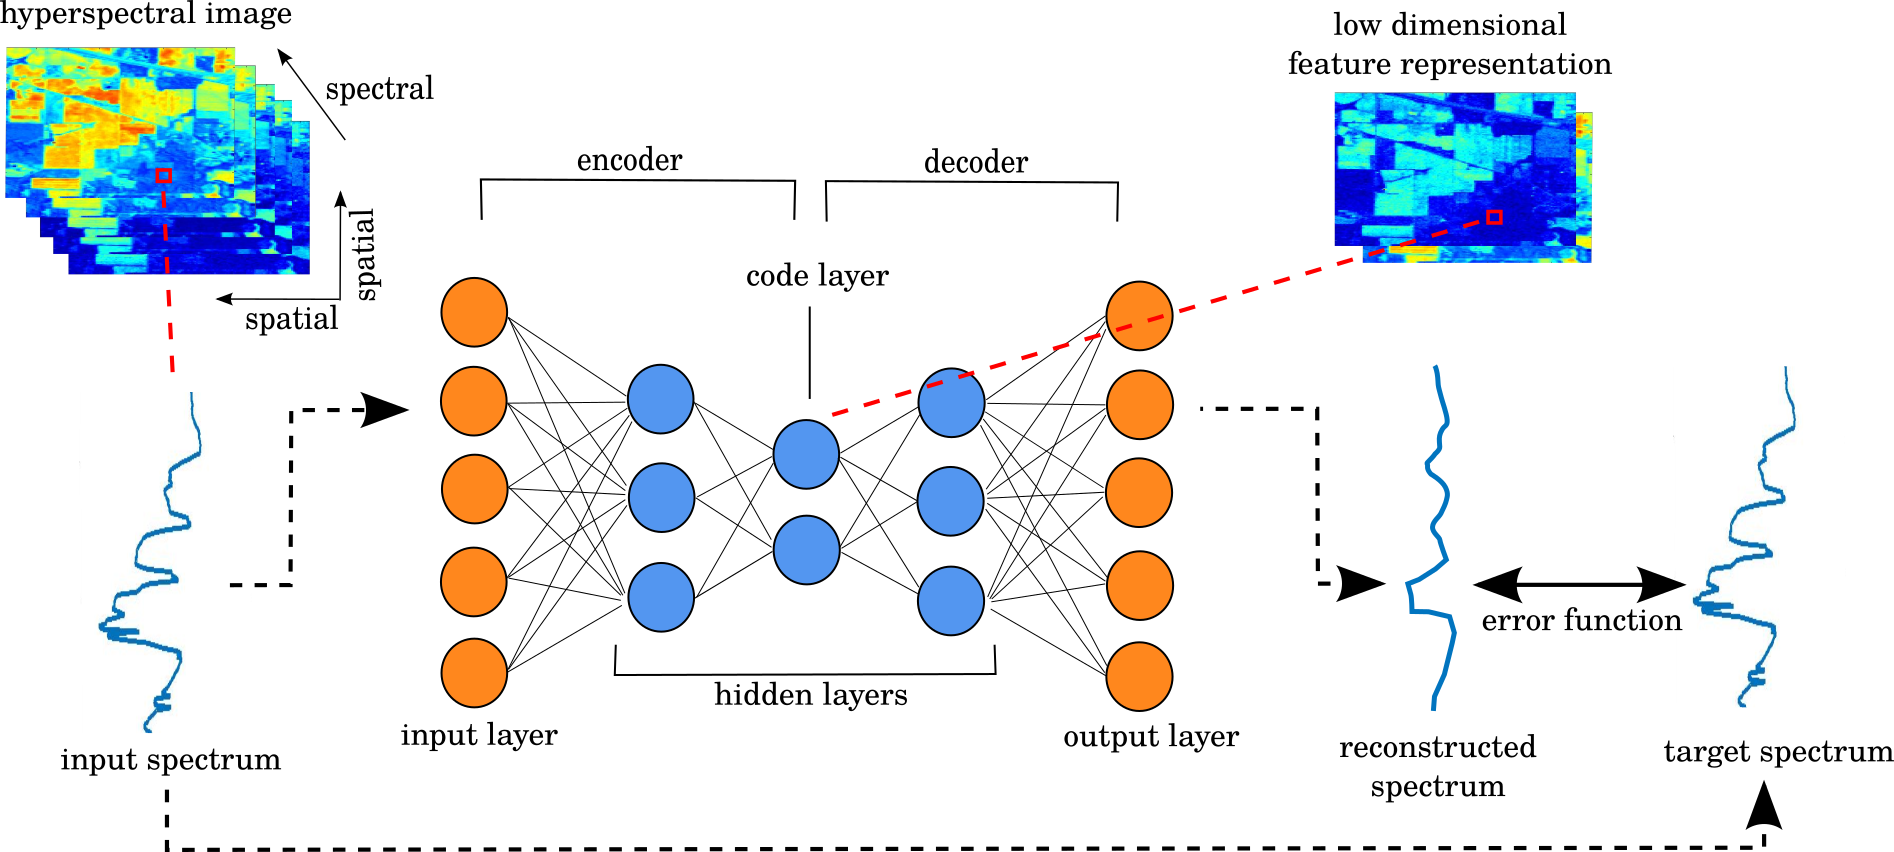
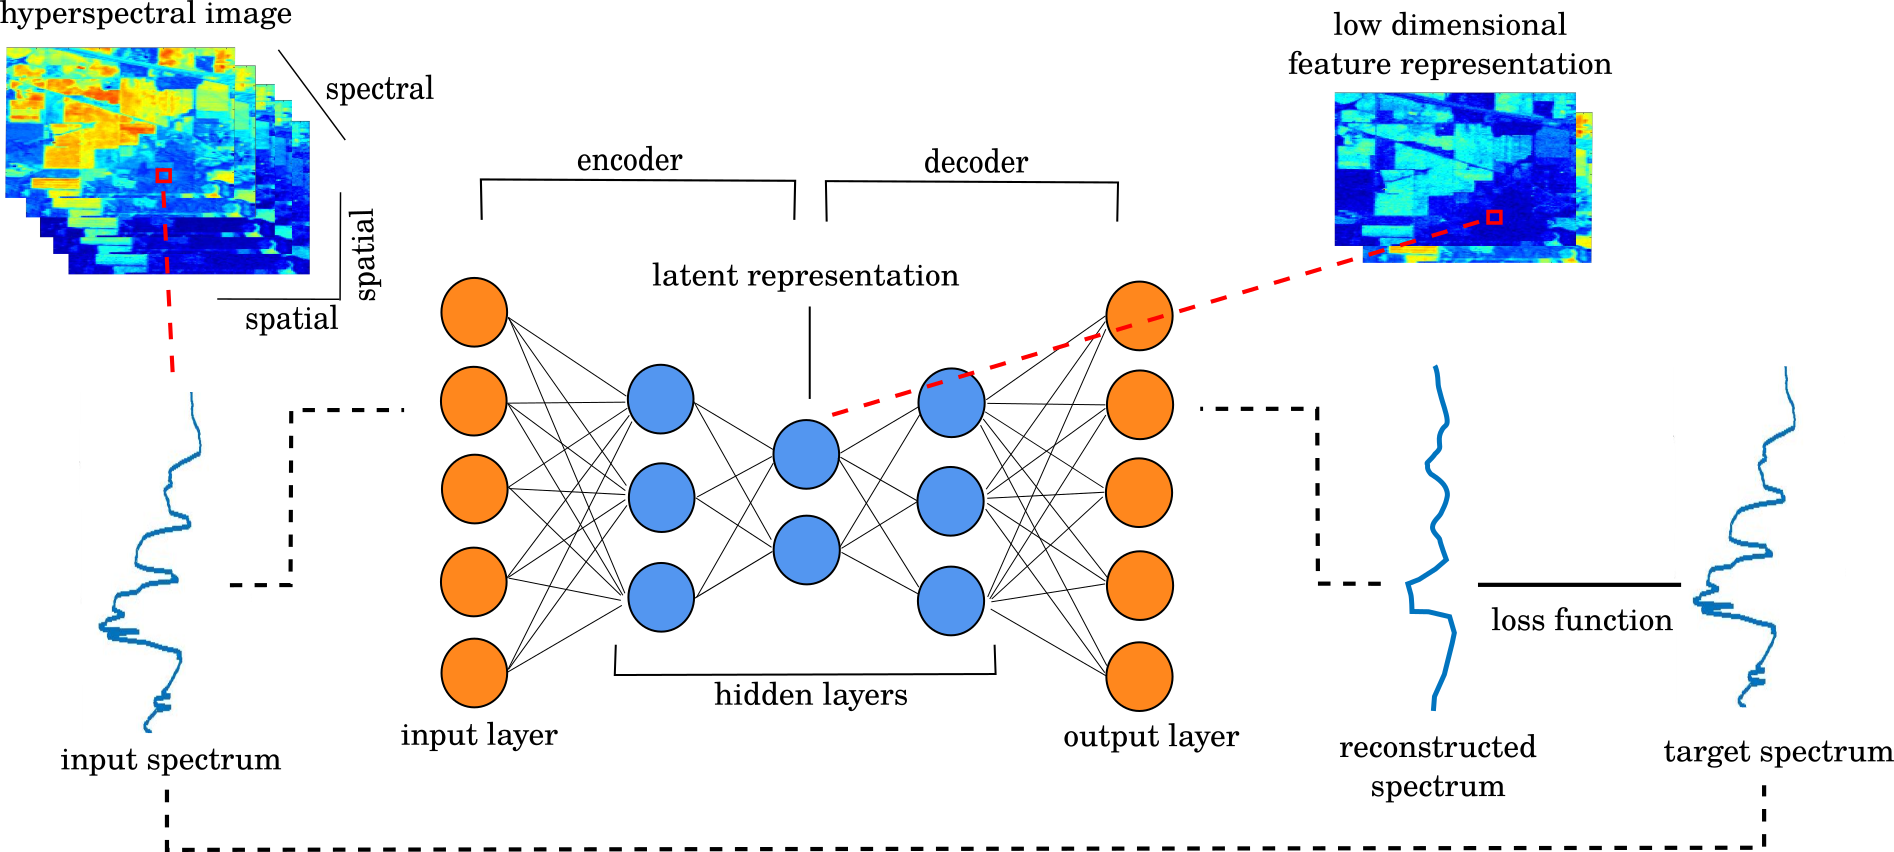
readme

diff --git a/examples/train_MLP_advanced.py b/examples/train_MLP_advanced.py
@@ -16,9 +16,6 @@ import data
 
 if __name__ == '__main__':
 
-    # fix the random seed
-    set_random_seed(seed=50)
-
     # download dataset (if already downloaded, comment this out)
     #urllib.urlretrieve( 'http://www.ehu.eus/ccwintco/uploads/e/ee/PaviaU.mat', os.path.join(os.getcwd(),'PaviaU.mat'), reporthook )
 

diff --git a/examples/train_CNN_vs_MLP.py b/examples/train_CNN_vs_MLP.py
@@ -16,8 +16,6 @@ import data
 
 if __name__ == '__main__':
 
-    set_random_seed(seed=50)
-
     # download dataset (if already downloaded, comment this out)
     #urllib.urlretrieve( 'http://www.ehu.eus/ccwintco/uploads/e/ee/PaviaU.mat', os.path.join(os.getcwd(),'PaviaU.mat'), reporthook )
 

diff --git a/examples/train_MLP_basic.py b/examples/train_MLP_basic.py
@@ -16,8 +16,6 @@ import data
 if __name__ == '__main__':
 
 
-    #set_random_seed(seed=0)
-
     # download dataset (if already downloaded, comment this out)
     urllib.urlretrieve( 'http://www.ehu.eus/ccwintco/uploads/e/ee/PaviaU.mat', os.path.join(os.getcwd(),'PaviaU.mat'), reporthook )
 

diff --git a/examples/train_MLP_sid.py b/examples/train_MLP_sid.py
@@ -17,8 +17,6 @@ import data
 
 if __name__ == '__main__':
 
-    set_random_seed(seed=0)
-
     # download dataset (if already downloaded, comment this out)
     #urllib.urlretrieve( 'http://www.ehu.eus/ccwintco/uploads/e/ee/PaviaU.mat', os.path.join(os.getcwd(),'PaviaU.mat'), reporthook )
 

diff --git a/examples/utils.py b/examples/utils.py
@@ -1,6 +1,5 @@
 import sys
 import time
-import tensorflow as tf
 
 
 def reporthook(count, block_size, total_size):
@@ -23,8 +22,3 @@ def reporthook(count, block_size, total_size):
     sys.stdout.flush()
 
 
-
-
-def set_random_seed(seed=0):
-
-    tf.set_random_seed(seed)

diff --git a/README.md b/README.md
@@ -39,18 +39,19 @@ The toolbox compresses several key processes:
 - building networks
 - adding train operations
 - training networks
+- loading a trained network
 
 Each of these are elaborated on below:
 
 ### Data preparation
 
-A class within the toolbox from the data module called HypImg handles the dataset. The class accepts the hyperspectral data  in numy format, with shape [numRows x numCols x numBands] or [numSamples x numBands]. 
+A class within the toolbox from the data module called HypImg handles the dataset. The class accepts the hyperspectral data  in numy format, with shape [numRows x numCols x numBands] or [numSamples x numBands]. The networks in the toolbox operate in the spectral domain, not the spatial, so if an image is input with shape [numRows x numCols x numBands], it is reshaped to [numSamples x numBands], collapsing the saptial dimensions into one.
 
 ```
 import data
 hypData = data.HypImg( img )
 ```
-Then the data can be pre-processed using a function of the HypImg class. For example, using the 'minmax' method:
+Then the data can be pre-processed using a function of the HypImg class. For example, using the 'minmax' approach:
 ```
 hypData.pre_process( 'minmax' )
 ```
@@ -65,13 +66,11 @@ Some hyperspectral datasets in a matlab file format (.mat) can be downloaded fro
 
 The Iterator class within the data module has methods for calling batches from the data that are used to train the network. A separate iterator object is made for the training and validation data. For example, an iterator object made from 100 pre-processed hyperspectral training samples with a batchsize of 10 is defined as:
 ```
-dataTrain = data.Iterator( dataSamples=hypData.spectraPrep[:100, :],
-targets=hypData.spectraPrep[:100, :], batchSize=10 )
+dataTrain = data.Iterator( dataSamples=hypData.spectraPrep[:100, :], targets=hypData.spectraPrep[:100, :], batchSize=10 )
 ```
 For a typical autoencoder, the targets that the network is learning to output are the same as the data samples being input into the network. Similarly, an iterator object made from 20 validation samples is defined as:
 ```
-dataVal = data.Iterator( dataSamples=hypData.spectraPrep[100:120, :],
-targets=hypData.spectraPrep[100:120, :] )
+dataVal = data.Iterator( dataSamples=hypData.spectraPrep[100:120, :], targets=hypData.spectraPrep[100:120, :] )
 ```
 Because the batchsize is unspecified, all 20 samples are used for the batch. The data in an iterator can also be shuffled before it is used to train a network:
 ```
@@ -92,25 +91,19 @@ If not using config files to set up a network, then the input size of the data m
 
 Additional aspects of the network architecture can also be specified when initialising the object. For the MLP autoencoder:
 ```
-net = autoencoder.mlp_1D_network( inputSize=hypData.numBands, encoderSize=[50,30,10,5],
-activationFunc='relu', weightInitOpt='truncated_normal', tiedWeights=[1,0,0,0],
-skipConnect=False, activationFuncFinal='linear')
+net = autoencoder.mlp_1D_network( inputSize=hypData.numBands, encoderSize=[50,30,10,5], activationFunc='relu', weightInitOpt='truncated_normal', tiedWeights=[1,0,0,0], skipConnect=False, activationFuncFinal='linear')
 ```
 - number of layers in the encoder (and decoder) - this is the length of the list 'encoderSize'
 - number of neurons in each layer of the encoder - these are the values in the 'encoderSize' list. The last value in the list is the number of dimensions in the latent vector.
 - the activation function which proceeds each layer and the function for the final decoder layer - activationFunc and activationFuncFinal
-- the method of initialising network parameters - weightInitOpt
+- the method of initialising network parameters (e.g. xavier improved) - weightInitOpt
 - which layers of the encoder to tie  to the decoder, such that they share a set of parameters - these are the values in the list 'tiedWeights'
 - whether the network uses skip connections between corresponding layers in the encoder and decoder - specified by the boolean argument skipConnect
 
 
 The convolutional autoencoder has similar arguments for defining the network architecture, but without 'encoderSize' and with some additional arguments:
 ```
-net = autoencoder.cnn_1D_network( inputSize=hypData.numBands, zDim=3,
-encoderNumFilters=[10,10,10], encoderFilterSize=[20,10,10], 
-activationFunc='relu', weightInitOpt='truncated_normal', 
-encoderStride=[1, 1, 1], padding='VALID', tiedWeights=[1,0,0,], 
-skipConnect=False, activationFuncFinal='linear' )
+net = autoencoder.cnn_1D_network( inputSize=hypData.numBands, zDim=3, encoderNumFilters=[10,10,10], encoderFilterSize=[20,10,10],  activationFunc='relu', weightInitOpt='truncated_normal',  encoderStride=[1, 1, 1], padding='VALID', tiedWeights=[1,0,0,],  skipConnect=False, activationFuncFinal='linear' )
 ```
 - number of layers in the encoder (and decoder) - this is the length of the list 'encodernumFilters'
 - number of filters/kernels in each conv layer - these are the values in the 'encodernumFilters' list
@@ -122,19 +115,75 @@ skipConnect=False, activationFuncFinal='linear' )
 
 Alternatively to defining the architecture by the initialisation arguments, a config.json file can be used:
 ```
-mlp = autoencoder.mlp_1D_network( configFile='config.json') )
+net = autoencoder.mlp_1D_network( configFile='config.json') )
 ```
 Some example config files can be found in examples/example_configs.
 
 
 
+### Adding training operations
 
+Once a network has been created, a training operation can be added to it. It is possible to add multiple training operations to a network, so each op must be given a name:
+```
+net.add_train_op( name='experiment_1' )
+```
+When adding a train op, details about how the network will be trained with that op can be specified. For example, a train op which uses the cosine spectral angle (CSA) loss function, a learning rate of 0.001 with no decay, optimised with Adam and no weight decay can be defined by:
+```
+net.add_train_op( name='experiment_1', lossFunc='CSA', learning_rate=1e-3, decay_steps=None, decay_rate=None, method='Adam', wd_lambda=0.0 )
+```
+There are several loss functions that can be used, many of which were designed specifically for hyperspectral data:
+- [cosine spectral angle (CSA)](https://ieeexplore.ieee.org/abstract/document/7533202)
+- [spectral angle (SA)](https://www.mdpi.com/2072-4292/11/7/864)
+- [spectral information divergence (SID)](https://www.mdpi.com/2072-4292/11/7/864)
+- [sum-of-squared errors (SSE)](https://www.mdpi.com/2072-4292/11/7/864)
 
+The method of decaying the learning rate can also be customised. For example, to decay exponentially every 100 steps:
+```
+net.add_train_op( name='experiment_1',learning_rate=1e-3, decay_steps=100, decay_rate=0.9 )
+```
+A piecewise approach of decaying the learning rate can also be used. For example, to change the learning rate from 0.001 to 0.0001 after 100 steps, and then to 0.00001 after a further 200 steps:
+```
+net.add_train_op( name='experiment_1',learning_rate=1e-3, piecewise_bounds=[100,300], piecewise_values=[1e-4,1e-5] )
+```
 
+### Training networks
 
+Once one or multiple training ops have been added to a network, they can be used to learn a model (or multiple models) for that network through training:
+```
+net.train(dataTrain=dataTrain, dataVal=dataVal, train_op_name='experiment_1', n_epochs=100, save_addr=model_directory, visualiseRateTrain=5, visualiseRateVal=10, save_epochs=[50,100])
+```
+The train method learns a model using one train op, therefore the train method should be called at least once for each train op that was added. The name of the train op must be specified, and the training and validation iterators created previously must be input. A path to a directory to save the model must also be specified. The example above will train a network for 100 epochs of the training dataset, and save the model at 50 and 100 epochs. The training loss will be displayed every 5 epochs, and the validation loss will be displayed every 10 epochs.
 
+It is also possible to load a pre-trained model and continue to train it by passing the address of epoch folder containing the model checkpoint as the save_addr argument. For example, if the directory for the model at epoch 50 (epoch_50 folder) was passed to save_addr in the example above, then the model would be trained for an additional 50 epochs to reach 100, and it would be saved in a folder called epoch_100 in the same directory as the epoch_50 folder.
 
+### Loading a trained network
 
+To load a trained model on a new dataset, ensure the data has been pre-processed similarly using:
 
+```
+import data
+hypData = data.HypImg( new_img )
+hypData.pre_process( 'minmax' )
+```
+Then set up the network. The network architecture must be the same as the one used for the model being loaded. However, this is easy as the directory where models are saved should contain an automatically generated config.json file, which can be used to set up the network with the same architecture:
+```
+net = autoencoder.mlp_1D_network( configFile='model_directory/config.json' )
+```
+Once the architecture has been defined, add a model to the network:
+```
+net.add_model( addr='model_directory/epoch_100'), modelName='csa_100' )
+```
+Because multiple models can be added to a single network, the added model must be given a name.
 
-
+When the network is set up and a model has been added, hyperspectral data can be passed through it. To extract the latent vectors of some spectra:
+```
+dataZ = net.encoder( modelName='csa_100', dataSamples=hypData.spectraPrep )
+```
+Make sure to refer to the name of the model the network should use. The encoded hyperspectral (dataZ) data can also be decoded to get the reconstruction:
+```
+dataY = net.decoder(modelName='csa_100', dataZ=dataZ)
+```
+It is also possible to encode and decode in one step with:
+```
+dataY = net.encoder_decoder(modelName='csa_100', dataZ=hypData.spectraPrep)
+```
